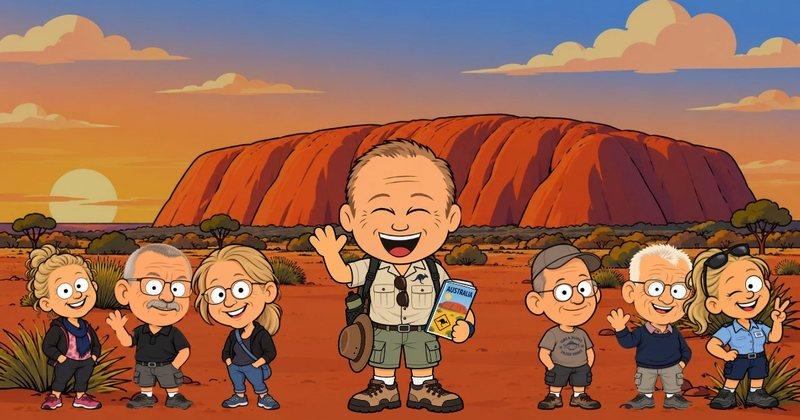
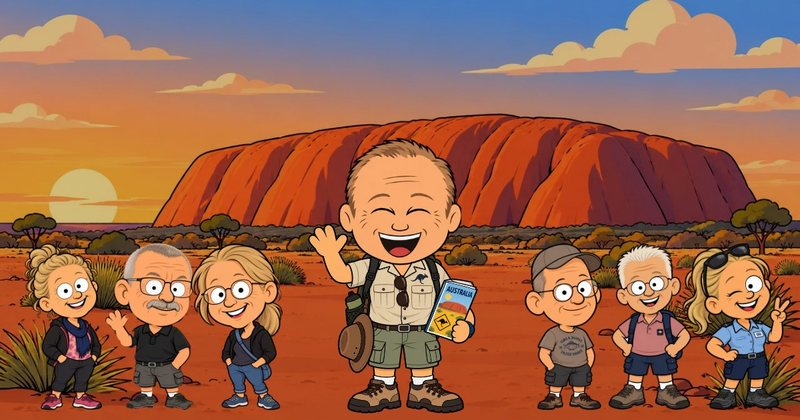
Bedankt, Maarten! voorop op startscherm en in de voorvertoning
Claude-Session: https://claude.ai/code/session_01SC28YP35H3kP7dQNjTgBUZ

Changed region(s): [[0.75, 0.5571, 0.875, 0.9905]]

diff --git a/index.html b/index.html
@@ -4,8 +4,8 @@
 <meta charset="utf-8">
 <meta name="viewport" content="width=device-width, initial-scale=1, viewport-fit=cover">
 <meta name="claude:viewport-fit-sides" content="cover">
-<title>Watch Your Back, Mates!</title>
-<meta name="description" content="Een tekenfilm voor Maarten, onze legende van een gids. Sawadee Australië, oktober 2026.">
+<title>Bedankt, Maarten! · Watch Your Back, Mates!</title>
+<meta name="description" content="Watch Your Back, Mates! Een tekenfilm van de hele groep voor onze gids. Sawadee Australië, oktober 2026.">
 <meta name="theme-color" content="#000000">
 <link rel="icon" href="favicon.ico" sizes="any">
 <link rel="icon" type="image/png" sizes="32x32" href="favicon-32.png">
@@ -17,9 +17,9 @@
 <meta name="apple-mobile-web-app-title" content="Maarten">
 <meta property="og:type" content="website">
 <meta property="og:url" content="https://rserne.github.io/watch-your-back-mates/">
-<meta property="og:title" content="Watch Your Back, Mates!">
-<meta property="og:description" content="Een tekenfilm voor Maarten, onze legende van een gids. Sawadee Australië, oktober 2026.">
-<meta property="og:image" content="https://rserne.github.io/watch-your-back-mates/og.jpg?v=2">
+<meta property="og:title" content="Bedankt, Maarten!">
+<meta property="og:description" content="Watch Your Back, Mates! Een tekenfilm van de hele groep voor onze gids. Sawadee Australië, oktober 2026.">
+<meta property="og:image" content="https://rserne.github.io/watch-your-back-mates/og.jpg?v=3">
 <meta property="og:image:width" content="1200">
 <meta property="og:image:height" content="630">
 <meta name="twitter:card" content="summary_large_image">
@@ -53,6 +53,7 @@ canvas{display:block;width:min(100vw, calc(100dvh * 16 / 9));height:auto;aspect-
 .start[hidden]{display:none}
 .start h1{margin:0;font:400 clamp(38px,8vmin,76px)/.95 Bangers,Impact,sans-serif;letter-spacing:.02em;color:#ffd23f;text-align:center;text-shadow:3px 3px 0 #000;text-wrap:balance}
 .stamp{margin:18px 0 0;font-size:12px;color:#6f6152;text-align:center}
+.song{margin:6px 0 0;font:400 clamp(22px,4.2vmin,36px)/1 Bangers,Impact,sans-serif;letter-spacing:.04em;color:#e0782f;text-align:center;text-shadow:2px 2px 0 #000}
 .kicker{margin:8px 0 clamp(16px,3.5vh,32px);font-weight:700;font-size:clamp(14px,2.2vmin,17px);color:#bfae96;text-align:center}
 .tiles{display:grid;grid-template-columns:repeat(auto-fit,minmax(min(100%,230px),1fr));gap:16px;width:100%;max-width:900px}
 .tile{display:flex;flex-direction:column;text-align:left;padding:0;border:1px solid #3b2f26;border-radius:18px;overflow:hidden;background:#211a15;color:var(--ink);cursor:pointer;font:inherit;box-shadow:0 10px 30px rgba(0,0,0,.35);transition:transform .15s,border-color .15s}
@@ -66,7 +67,7 @@ canvas{display:block;width:min(100vw, calc(100dvh * 16 / 9));height:auto;aspect-
 .tile-body{padding:12px 16px 16px}
 .tile-t{display:block;font:400 26px/1.1 Bangers,Impact,sans-serif;letter-spacing:.04em;color:var(--ink)}
 .tile-s{display:block;margin-top:2px;font-size:14px;color:#bfae96;font-weight:700}
-@media (max-height:500px) and (orientation:landscape){ .start h1{font-size:34px} .kicker{margin:4px 0 12px} .tiles{max-width:760px;grid-template-columns:1fr 1fr 1fr} .tile-lyr{padding:8px 12px;gap:2px} .tile-lyr span{font-size:11px} .tile-lyr b{font-size:17px} .tile-body{padding:8px 12px 10px} .tile-t{font-size:21px} }
+@media (max-height:500px) and (orientation:landscape){ .start h1{font-size:34px} .song{font-size:20px;margin-top:2px} .kicker{margin:4px 0 12px} .tiles{max-width:760px;grid-template-columns:1fr 1fr 1fr} .tile-lyr{padding:8px 12px;gap:2px} .tile-lyr span{font-size:11px} .tile-lyr b{font-size:17px} .tile-body{padding:8px 12px 10px} .tile-t{font-size:21px} }
 /* lyrics: a calm reading page in the colours of the film */
 .lyrics{position:fixed;inset:0;overflow-y:auto;-webkit-overflow-scrolling:touch;background:#15110e;color:var(--ink)}
 .lyrics[hidden]{display:none}
@@ -126,14 +127,15 @@ canvas{display:block;width:min(100vw, calc(100dvh * 16 / 9));height:auto;aspect-
   </div>
 </div>
 <div class="start" id="start">
-  <h1>Watch Your Back, Mates!</h1>
-  <p class="kicker">Een tekenfilm voor Maarten · Sawadee Australië, oktober 2026</p>
+  <h1>Bedankt, Maarten!</h1>
+  <p class="song">Watch Your Back, Mates!</p>
+  <p class="kicker">Een tekenfilm van de hele groep · Sawadee Australië, oktober 2026</p>
   <div class="tiles">
     <button class="tile" id="go-film"><span class="tile-pic" style="background-image:url(img/poster.jpg?v=2)"><span class="round"><svg viewBox="0 0 24 24" aria-hidden="true"><path fill="currentColor" d="M6 3.5v17a1 1 0 0 0 1.5.86l14-8.5a1 1 0 0 0 0-1.72l-14-8.5A1 1 0 0 0 6 3.5z"/></svg></span></span><span class="tile-body"><span class="tile-t">De film</span><span class="tile-s">4 minuten · zet het geluid aan</span></span></button>
     <button class="tile" id="go-tekst"><span class="tile-lyr"><span>Twenty-two strangers flew in from the cold</span><span>Sydney was shining, the Blue Mountains old</span><b>WOO... SHAAAAAA!</b><span>Down Under we go and we’re having a blast</span></span><span class="tile-body"><span class="tile-t">De songtekst</span><span class="tile-s">Het hele lied om mee te lezen</span></span></button>
     <button class="tile" id="go-mates"><span class="tile-mates"><img src="img/lisette.webp" alt=""><img src="img/kees.webp" alt=""><img src="img/coby.webp" alt=""><img src="img/john.webp" alt=""></span><span class="tile-body"><span class="tile-t">De mates</span><span class="tile-s">De hele groep, één voor één</span></span></button>
   </div>
-  <p class="stamp">versie 26-10 06.06</p>
+  <p class="stamp">versie 26-10 06.55</p>
 </div>
 <section class="lyrics mates" id="mates" hidden aria-label="De mates">
   <div class="lyr-bar"><button class="pill" id="mates-terug"><svg viewBox="0 0 24 24" aria-hidden="true"><path fill="none" stroke="currentColor" stroke-width="2.6" stroke-linecap="round" stroke-linejoin="round" d="M15 5l-7 7 7 7"/></svg>Terug</button><button class="pill primary" id="mates-film"><svg viewBox="0 0 24 24" aria-hidden="true"><path fill="currentColor" d="M6 3.5v17a1 1 0 0 0 1.5.86l14-8.5a1 1 0 0 0 0-1.72l-14-8.5A1 1 0 0 0 6 3.5z"/></svg>Film bekijken</button></div>
@@ -143,7 +145,7 @@ canvas{display:block;width:min(100vw, calc(100dvh * 16 / 9));height:auto;aspect-
 </section>
 <section class="lyrics" id="tekst" hidden aria-label="Songtekst">
   <div class="lyr-bar"><button class="pill" id="tekst-terug"><svg viewBox="0 0 24 24" aria-hidden="true"><path fill="none" stroke="currentColor" stroke-width="2.6" stroke-linecap="round" stroke-linejoin="round" d="M15 5l-7 7 7 7"/></svg>Terug</button><button class="pill primary" id="tekst-film"><svg viewBox="0 0 24 24" aria-hidden="true"><path fill="currentColor" d="M6 3.5v17a1 1 0 0 0 1.5.86l14-8.5a1 1 0 0 0 0-1.72l-14-8.5A1 1 0 0 0 6 3.5z"/></svg>Film bekijken</button></div>
-  <div class="lyr"><h1>Watch Your Back, Mates!</h1><p class="sub">Een lied voor Martin, onze gids door Australië</p><h2>Intro</h2><p class="spoken">Gather round, mates... this is a true story...</p><p class="shout">WOO... SHAAAAAA!</p><h2>Couplet 1</h2><p>Twenty-two strangers flew in from the cold</p><p>Sydney was shining, the Blue Mountains old</p><p>Martin said &quot;no worries&quot; and counted us twice</p><p>&#x27;Cause losing a tourist down here isn&#x27;t nice</p><h2>Refrein</h2><p class="shout">WOO... SHAAAAAA!</p><p>Down Under we go and we’re having a blast</p><p>Stay close to the group and don’t walk in last</p><p>G’day mate, no worries, but watch your back</p><p class="shout">WOO... SHAAAAAA!</p><h2>Couplet 2</h2><p>We squeezed in a minibus, knees in our face</p><p>The aircon was dying, no air and no space</p><p>We moaned and we groaned, so Martin got tough</p><p>And found us a bus that was more than enough</p><h2>Echo</h2><p class="spoken">Hello? <span class="echo">(hello... hello... hello...)</span></p><p class="spoken">Is anybody back there? <span class="echo">(there... there... there...)</span></p><p class="spoken">Better not sit in the back... <span class="echo">(back... back... back...)</span></p><h2>Couplet 3</h2><p>Tassie gave wombats with square little poo</p><p>Cradle in sunshine, Wineglass Bay blue</p><p>Then the bus went quiet, our guide dimmed the light</p><p>And told us the tale of that cold Tassie night</p><h2>Het verhaal</h2><p class="spoken">Eighteen twenty-two... eight convicts ran free...</p><p class="spoken">No food in the bush... as far as you could see...</p><p class="spoken">And one by one... the group got thin...</p><p class="spoken">Only Alexander Pearce came walking back in...</p><p class="spoken">With an axe in his hand... and a very full belly...</p><p class="shout">WOO... SHAAAAAAAAA!</p><h2>Refrein</h2><p class="shout">WOO... SHAAAAAA!</p><p>Down Under we go and we’re having a blast</p><p>Stay close to the group and don’t walk in last</p><p>G’day mate, no worries, but watch your back</p><p class="shout">WOO... SHAAAAAA!</p><h2>Couplet 4</h2><p>Kangaroos in Halls Gap, koalas up high</p><p>Twelve Apostles, only eight, don’t ask us why</p><p>Camel on the barbie, Uluru glowing red</p><p>We’re still counting heads before we go to bed</p><h2>Slotrefrein</h2><p class="shout">WOO... SHAAAAAA!</p><p>Martin, oh Martin, you’re a legend, mate</p><p>You led us Down Under and kept us all straight</p><p>You counted us daily, not one on a plate</p><p class="shout">WOO... SHAAAAAA!</p><h2>Slot</h2><p class="spoken">Sleep tight, mates...</p><p class="shout soft">woo... shaaaaaa...</p><p class="end">Met dank van de hele groep. Woo... shaaa!</p></div>
+  <div class="lyr"><h1>Watch Your Back, Mates!</h1><p class="sub">Een lied voor Maarten, onze gids door Australië</p><h2>Intro</h2><p class="spoken">Gather round, mates... this is a true story...</p><p class="shout">WOO... SHAAAAAA!</p><h2>Couplet 1</h2><p>Twenty-two strangers flew in from the cold</p><p>Sydney was shining, the Blue Mountains old</p><p>Martin said &quot;no worries&quot; and counted us twice</p><p>&#x27;Cause losing a tourist down here isn&#x27;t nice</p><h2>Refrein</h2><p class="shout">WOO... SHAAAAAA!</p><p>Down Under we go and we’re having a blast</p><p>Stay close to the group and don’t walk in last</p><p>G’day mate, no worries, but watch your back</p><p class="shout">WOO... SHAAAAAA!</p><h2>Couplet 2</h2><p>We squeezed in a minibus, knees in our face</p><p>The aircon was dying, no air and no space</p><p>We moaned and we groaned, so Martin got tough</p><p>And found us a bus that was more than enough</p><h2>Echo</h2><p class="spoken">Hello? <span class="echo">(hello... hello... hello...)</span></p><p class="spoken">Is anybody back there? <span class="echo">(there... there... there...)</span></p><p class="spoken">Better not sit in the back... <span class="echo">(back... back... back...)</span></p><h2>Couplet 3</h2><p>Tassie gave wombats with square little poo</p><p>Cradle in sunshine, Wineglass Bay blue</p><p>Then the bus went quiet, our guide dimmed the light</p><p>And told us the tale of that cold Tassie night</p><h2>Het verhaal</h2><p class="spoken">Eighteen twenty-two... eight convicts ran free...</p><p class="spoken">No food in the bush... as far as you could see...</p><p class="spoken">And one by one... the group got thin...</p><p class="spoken">Only Alexander Pearce came walking back in...</p><p class="spoken">With an axe in his hand... and a very full belly...</p><p class="shout">WOO... SHAAAAAAAAA!</p><h2>Refrein</h2><p class="shout">WOO... SHAAAAAA!</p><p>Down Under we go and we’re having a blast</p><p>Stay close to the group and don’t walk in last</p><p>G’day mate, no worries, but watch your back</p><p class="shout">WOO... SHAAAAAA!</p><h2>Couplet 4</h2><p>Kangaroos in Halls Gap, koalas up high</p><p>Twelve Apostles, only eight, don’t ask us why</p><p>Camel on the barbie, Uluru glowing red</p><p>We’re still counting heads before we go to bed</p><h2>Slotrefrein</h2><p class="shout">WOO... SHAAAAAA!</p><p>Martin, oh Martin, you’re a legend, mate</p><p>You led us Down Under and kept us all straight</p><p>You counted us daily, not one on a plate</p><p class="shout">WOO... SHAAAAAA!</p><h2>Slot</h2><p class="spoken">Sleep tight, mates...</p><p class="shout soft">woo... shaaaaaa...</p><p class="end">Met dank van de hele groep. Woo... shaaa!</p></div>
 </section>
 <audio id="au" src="lied.mp3" preload="auto"></audio>
 <script>
